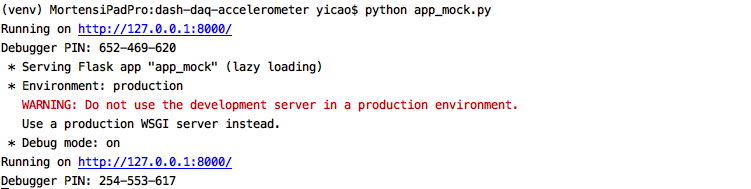
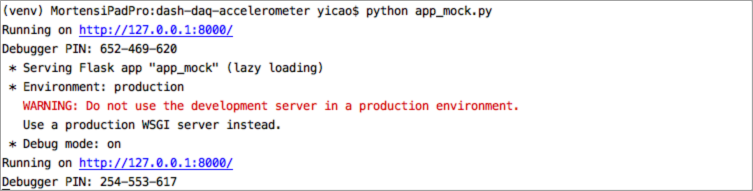
- Add border and resize screenshots - Still missing Local application section

diff --git a/README.md b/README.md
@@ -1,8 +1,9 @@
 # Dash DAQ Accelerometer
 
-A dash application which facilitates the controlling of Phidgets 1041_B Accelerometer. Try out [this app](https://dash-gallery.plotly.host/dash-daq-accelerometer) and learn more about this application from our [blog entry](https://www.dashdaq.io/read-data-from-a-phidgets-accelerometer).
+## Introduction
+A dash application which facilitates the controlling of Phidgets 1041_B Accelerometer. [Try out this app](https://dash-gallery.plotly.host/dash-daq-accelerometer) and learn more about this application from our [blog entry](https://www.dashdaq.io/read-data-from-a-phidgets-accelerometer).
 
-## Phidgets accelerometer
+### Phidgets accelerometer
 The Phidgets Spatial is a 3-axis accelerometer that :
 - Track whether an object is moving, and in which direction (x, y, z)
 - Detect the presence of nearby movement or vibration
@@ -10,8 +11,11 @@ The Phidgets Spatial is a 3-axis accelerometer that :
 
 The 1041 device can measure ±8 g's (±78 m/s2) per axis. It could be connected to your computer via USB and programmatically tracked. Phidgets provide resourceful [API](https://www.phidgets.com/?view=api) for programmers.
 
-## Dash-daq
+### Dash-daq
 [Dash DAQ](http://dash-daq.netlify.com/#about) is a data acquisition and control package built on top of Plotly's [Dash](https://plot.ly/products/dash/). It comprises a robust set of controls that make it simpler to integrate data acquisition and controls into your Dash applications.
+
+## How to use the app
+There are two versions of this application. A mock version for the user to play with, without any instruments connected, and a local version, that can be connected to a device.
 
 ## Requirements
 We suggest you to create a virtual environment for python3 to run this app. To do so, run:
@@ -28,8 +32,12 @@ To install all of this app-specific required packages to this environment, simpl
 pip install -r requirements.txt
 ```
 
-## How to run mock app
-To run mock app, simply run in command line(or Terminal for Linux/MacOS) like:
+## Local application 
+
+
+
+## Mock application
+To run __**mock version**__, simply run in command line(or Terminal for Linux/MacOS):
 
 ```
 python app_mock.py
@@ -41,7 +49,7 @@ And you will see the following prompt:
 
 Open the web address in your browser:  
 
-![changefail](screenshots/openport.png)
+![changefail](screenshots/openport.jpg)
 
 You will see the control panel of the accelerometer, with your device information displayed at the top. The app is ready-to-use.
 
@@ -57,7 +65,7 @@ The measured data detected on x, y and z axes is gathered from the device, and w
 
 ### The Phidgets device
 
-Technical details about Phidgets 1041_B could be found in [**phidget User Guide**](https://www.phidgets.com/?tier=3&catid=10&pcid=8&prodid=1022).
+Technical details about Phidgets 1041_B could be found in [**Phidget User Guide**](https://www.phidgets.com/?tier=3&catid=10&pcid=8&prodid=1022).
 
 ### Dash
 Dash abstracts away all of the technologies and protocols required to build an interactive web-based application, and is a simple and effective way to bind a user interface around your Python code. To learn more about Dash, check out our [documentation](https://dash.plot.ly/).
